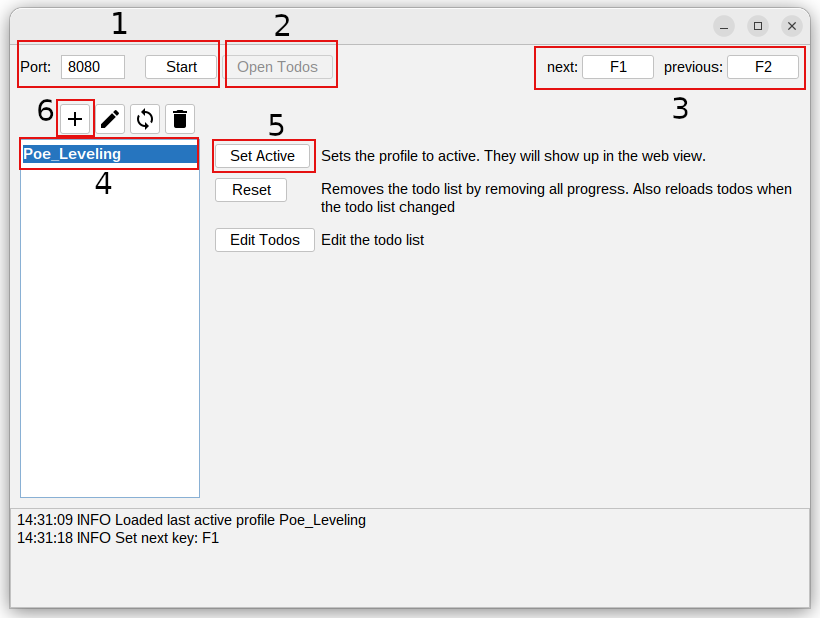
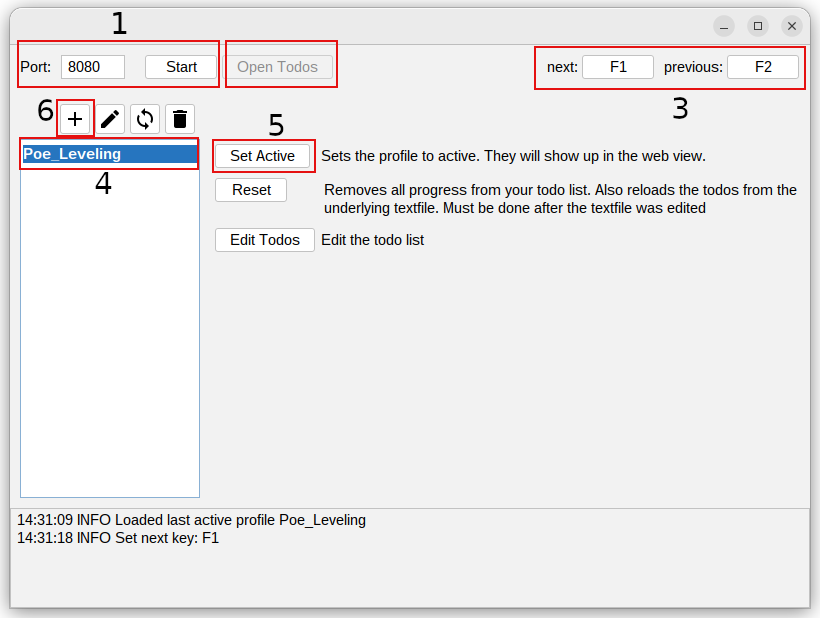
change readme picture

Changed region(s): [[0.3963, 0.2767, 0.9756, 0.3689], [0.3354, 0.0, 0.3659, 0.0615]]

diff --git a/dev/src/main/java/org/tevid/todo_list/profile/UiProfileContent.java b/dev/src/main/java/org/tevid/todo_list/profile/UiProfileContent.java
@@ -63,7 +63,7 @@ public class UiProfileContent extends JPanel implements ProfileChangeListener {
 
 		addLabel(gbc, actions, 1, "Sets the profile to active. They will show up in the web view.");
 		addLabel(gbc, actions, 2,
-				"Removes the todo list by removing all progress. Also reloads todos when the todo list changed");
+				"Removes all progress from your todo list. Also reloads the todos from the underlying textfile. Must be done after the textfile was edited");
 		addLabel(gbc, actions, 3, "Edit the todo list");
 
 		this.setVisible(false);
